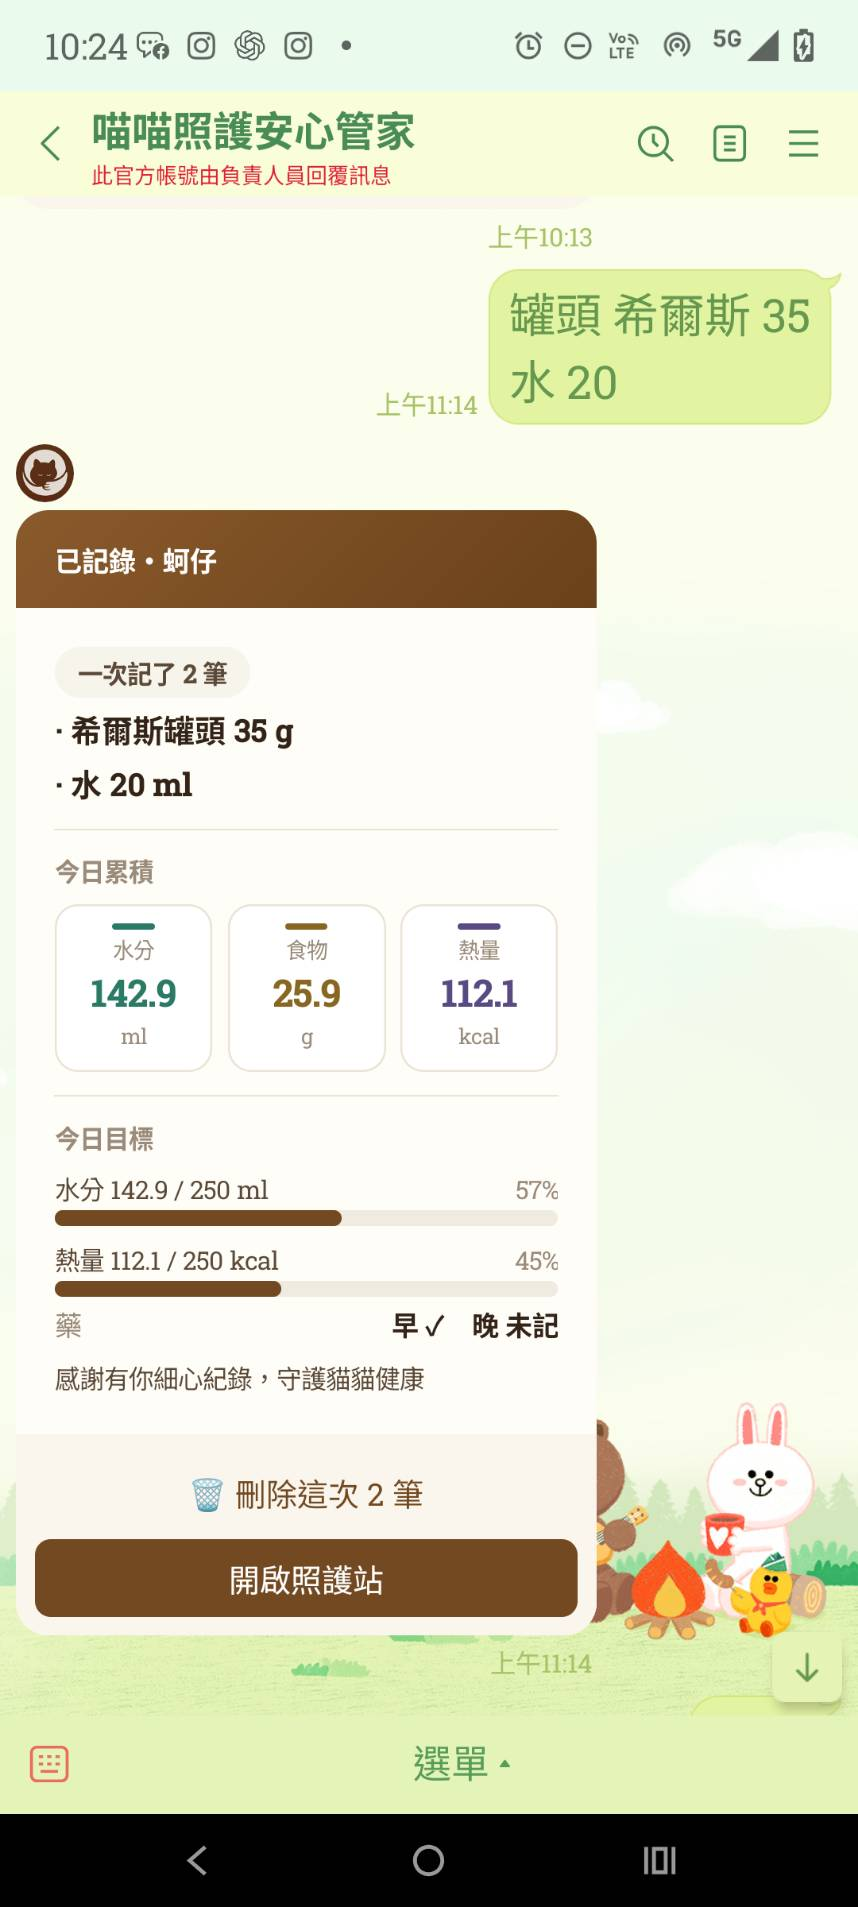
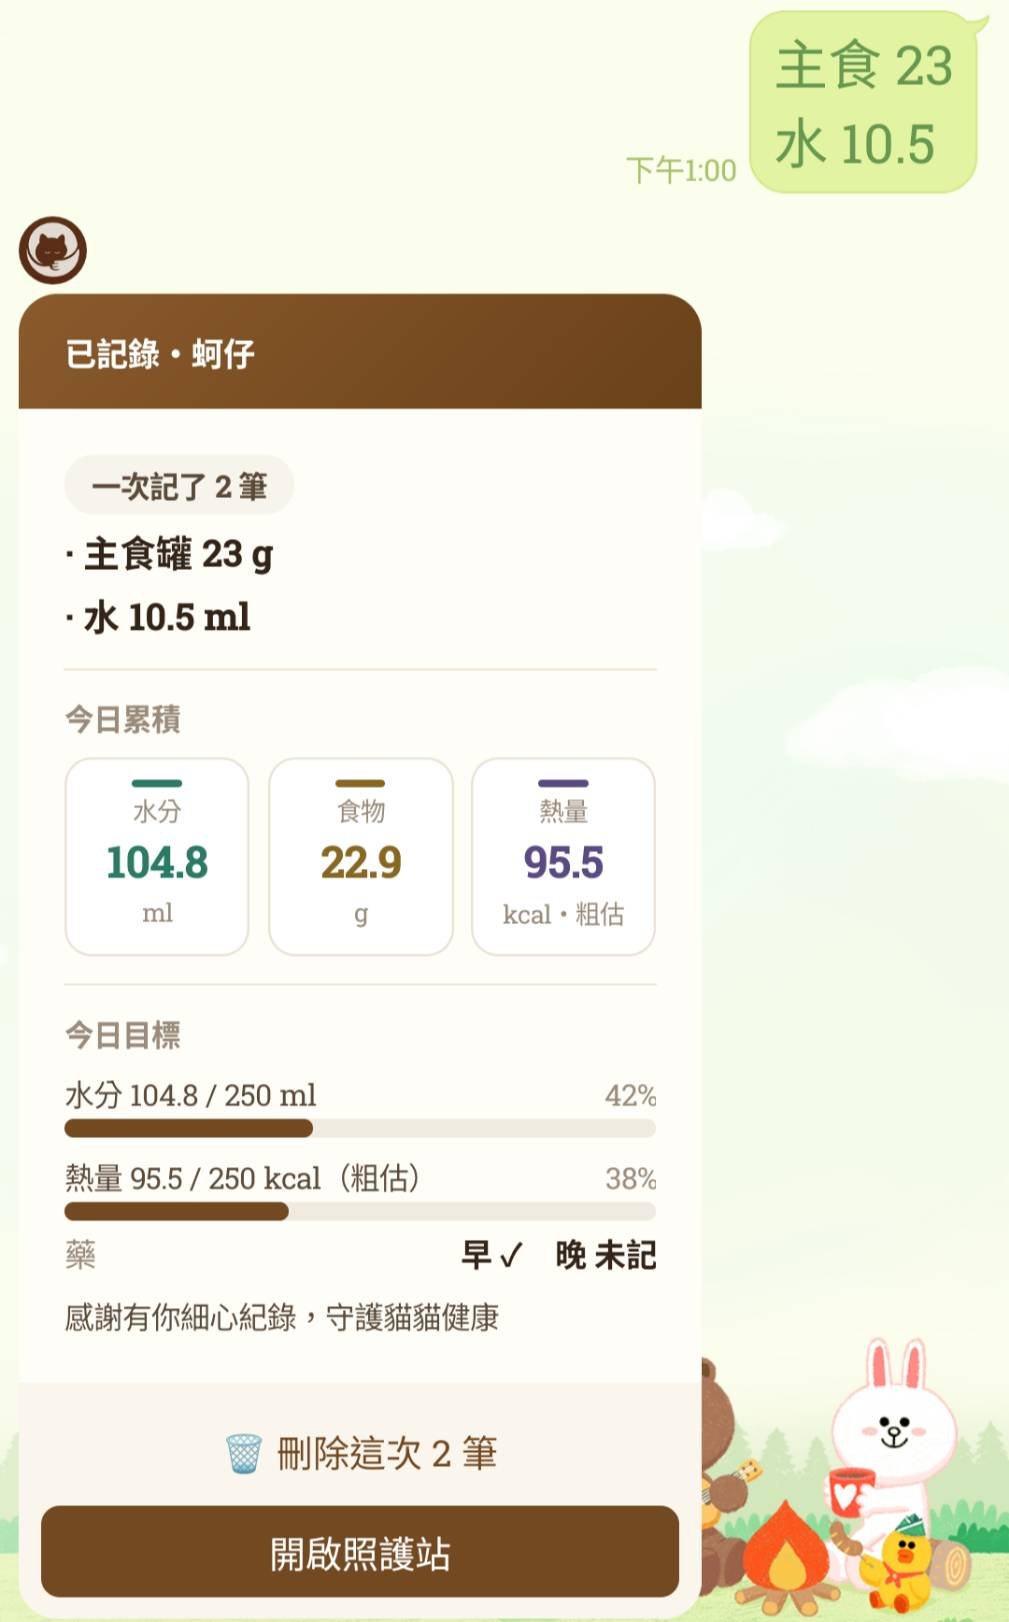
簡化食物記錄格式並更新範例照片

diff --git a/site/index.html b/site/index.html
@@ -242,6 +242,14 @@
     .amount-card > span { color: var(--muted); font-size: 16px; }
     .amount-card.wide { grid-column: 1 / -1; }
     .section-label { margin: 2px 0 8px; color: var(--espresso); font-size: 18px; }
+    .hunger-note {
+      margin: 0 0 16px;
+      padding: 14px 16px;
+      color: var(--espresso);
+      background: #f8f0e8;
+      border-left: 4px solid var(--coffee);
+      border-radius: 12px;
+    }
     .daily-plan {
       margin: 14px 0;
       overflow: hidden;
@@ -421,6 +429,18 @@
       border-radius: 50%;
     }
     .four-steps b .number-accent { color: white; font-size: inherit; }
+    .record-formats {
+      margin: 16px 0 0;
+      padding: 16px 18px;
+      background: #f6ece2;
+      border: 1px solid var(--line);
+      border-radius: 14px;
+    }
+    .record-formats > strong { display: block; margin-bottom: 10px; color: var(--espresso); }
+    .record-format-row { display: flex; gap: 10px; align-items: baseline; padding: 7px 0; }
+    .record-format-row + .record-format-row { border-top: 1px solid var(--line); }
+    .record-format-row b { min-width: 52px; color: var(--coffee); }
+    .record-format-note { margin: 10px 0 0; color: var(--muted); }
     .screens { display: grid; grid-template-columns: repeat(2, minmax(0, 1fr)); gap: 14px; margin-top: 20px; }
     .screen { margin: 0; }
     .screen-label {
@@ -725,6 +745,7 @@
         <details class="phase">
           <summary class="phase-title"><div><span class="time-label">陪伴期間</span><h3>照護中</h3><p>罐罐早中晚至少各2次・乾乾早晚各1次・藥早晚各1次</p></div></summary>
           <div class="phase-body">
+            <p class="hunger-note"><strong>蚵仔餓了時：</strong>可能會蹭你的腳，或在飯碗附近喵喵叫。</p>
             <h4 class="section-label">每次餵多少</h4>
             <div class="amounts">
               <div class="amount-card"><b>罐頭</b><strong><small>每餐約</small>35g</strong><span>早中晚至少各2次</span></div>
@@ -873,13 +894,19 @@
         <h2><a class="miaomiao-link" href="https://line.me/R/ti/p/@232mjffx" target="_blank" rel="noopener noreferrer">喵喵安心照護管家</a></h2>
         <ol class="four-steps">
           <li><b>1</b><span>開啟<a class="miaomiao-link" href="https://line.me/R/ti/p/@232mjffx" target="_blank" rel="noopener noreferrer">喵喵安心照護管家</a></span></li>
-          <li><b>2</b><span>填食物克數和水量（ml）</span></li>
+          <li><b>2</b><span>照下方的固定格式輸入</span></li>
           <li><b>3</b><span>按下儲存</span></li>
         </ol>
+        <div class="record-formats">
+          <strong>只要照這樣輸入：</strong>
+          <div class="record-format-row"><b>罐頭</b><span>主食＋克數</span></div>
+          <div class="record-format-row"><b>乾糧</b><span>乾糧＋克數</span></div>
+          <p class="record-format-note">不用記罐頭品牌。罐頭有加水時，再輸入「水＋ml數」。</p>
+        </div>
         <p class="warning">水量不用非常精準。用3 ml或5 ml針筒餵完後，扣掉剩餘與大概流掉的量，記錄約喝下幾ml即可。</p>
         <div class="screens">
           <figure class="screen"><span class="screen-label">記水</span><img src="assets/record-water.jpg" alt="喵喵安心照護管家記錄飲水5 ml的畫面"><figcaption>輸入「水＋ml數」，確認畫面顯示喝水與水量。</figcaption></figure>
-          <figure class="screen"><span class="screen-label">記食物</span><img src="assets/record-food.jpg" alt="喵喵安心照護管家記錄罐頭克數與加水ml數的畫面"><figcaption>輸入罐頭名稱、克數；罐頭有加水時，也一起填水的ml數。</figcaption></figure>
+          <figure class="screen"><span class="screen-label">記罐頭＋水</span><img src="assets/record-food.jpg" alt="喵喵安心照護管家輸入主食克數與水量的畫面"><figcaption>罐頭輸入「主食＋克數」；有加水，再輸入「水＋ml數」。</figcaption></figure>
         </div>
       </article>
     </section>
